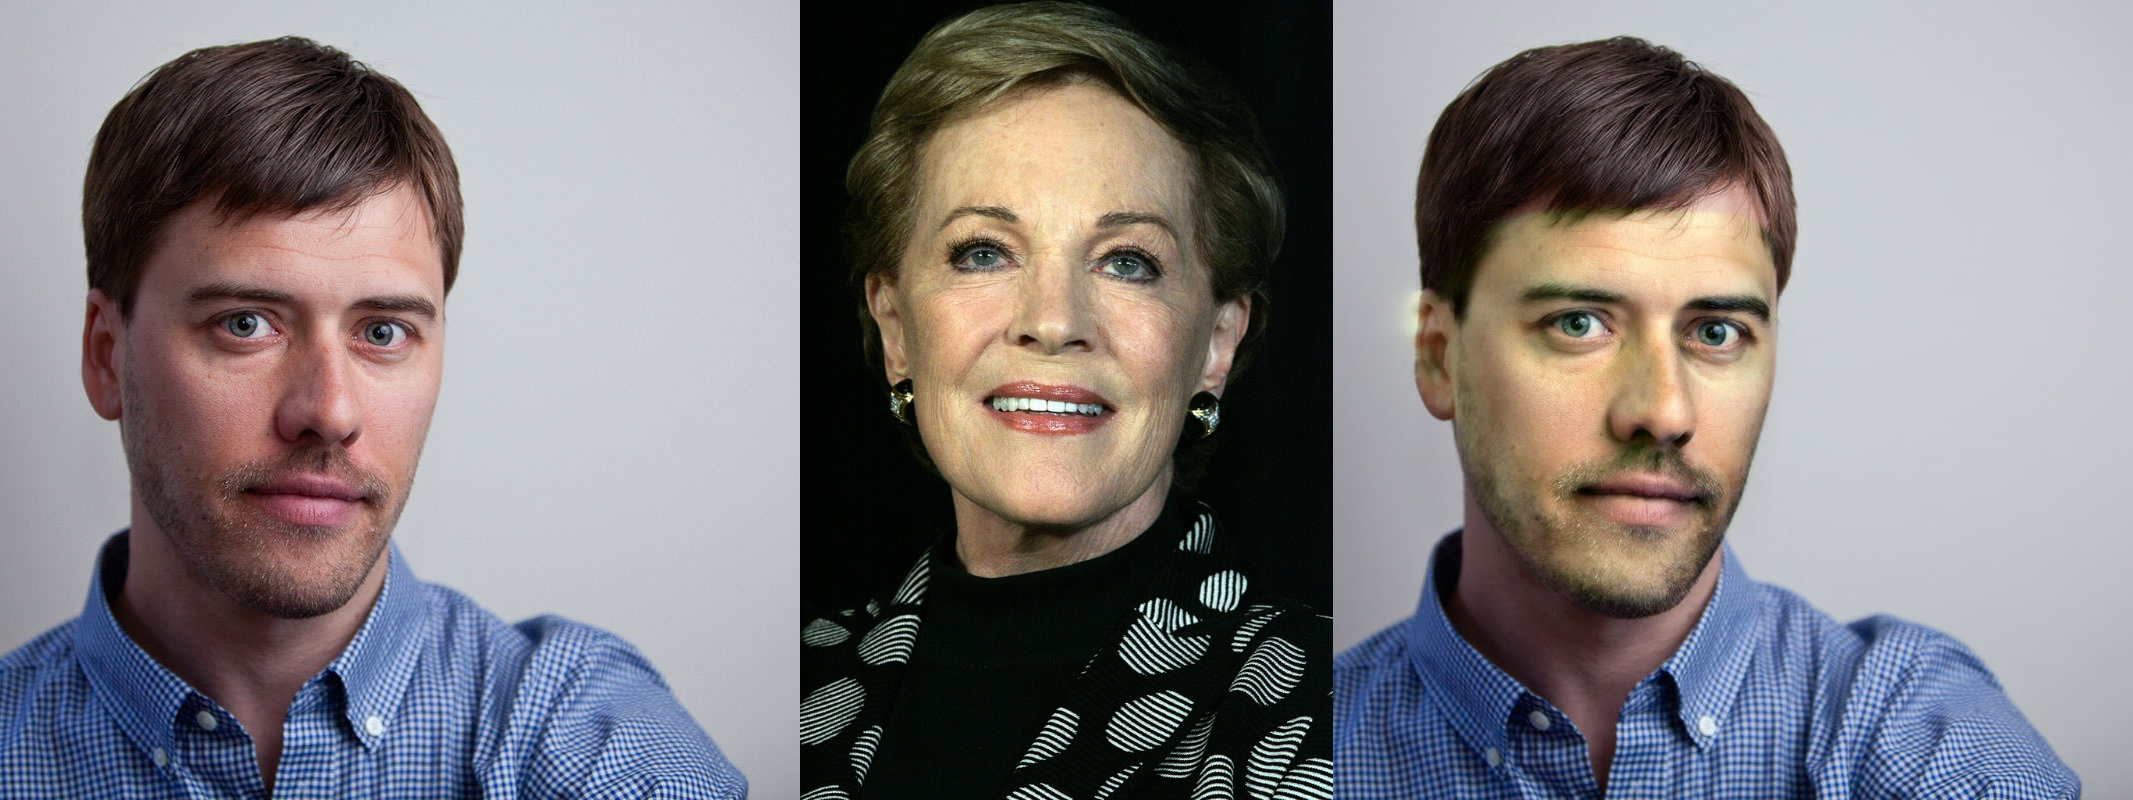
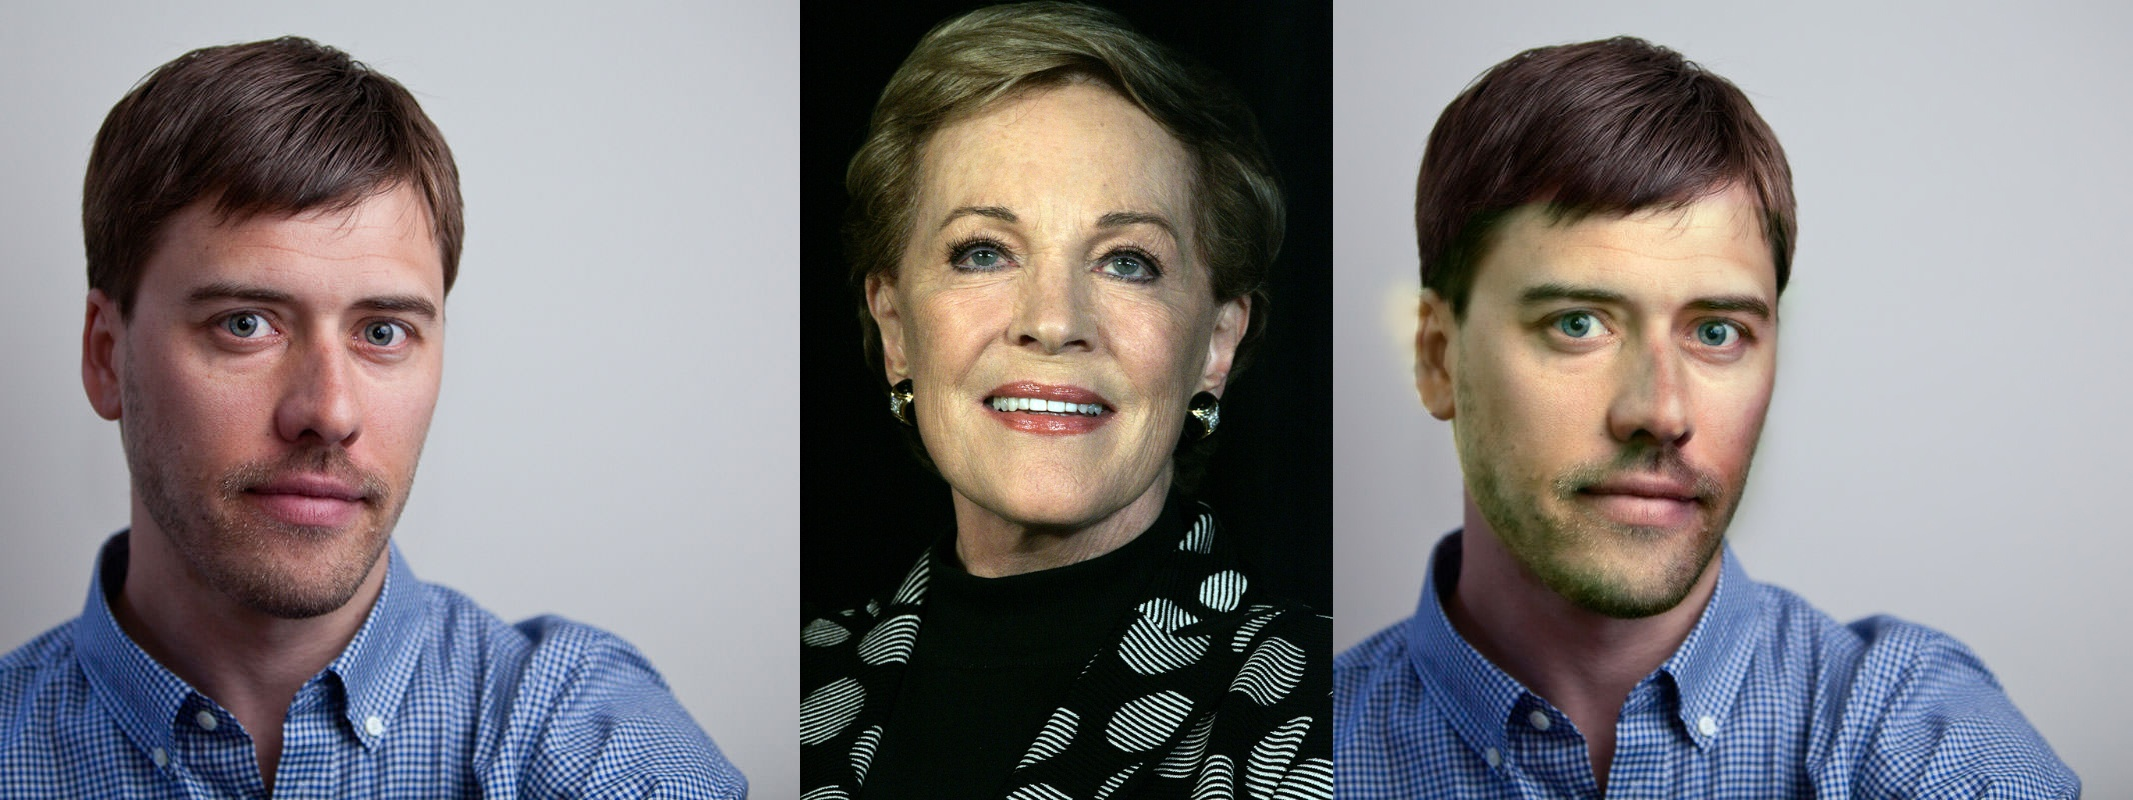
replace PRNet's dlib detection with pytorch retinaface, improve human face detection speed largely

Changed region(s): [[0.7736, 0.25, 0.8354, 0.6875], [0.6807, 0.5312, 0.7117, 0.625], [0.7736, 0.7188, 0.8045, 0.7812]]

diff --git a/python_portrait_relight/retinaface.py b/python_portrait_relight/retinaface.py
@@ -1,0 +1,82 @@
+# -*- coding: utf-8 -*-
+""" RetinaFace Detection SDK. """
+
+import torch
+import numpy as np
+
+from .pytorch_retinaface.data import cfg_mnet, cfg_re50
+from .pytorch_retinaface.models.retinaface import RetinaFace
+from .pytorch_retinaface.detect import load_model
+from .pytorch_retinaface.layers.functions.prior_box import PriorBox
+from .pytorch_retinaface.utils.box_utils import decode, decode_landm
+from .pytorch_retinaface.utils.nms.py_cpu_nms import py_cpu_nms
+
+
+class RetinaFaceSDK:
+    """RetinaFace detection sdk.
+    Attributes:
+        cfg: configure params.
+        device: cpu or cuda.
+        detector: retina face detector.
+        nms_thre: nms threshold.
+    """
+    def __init__(self, weight_path=None, cpu=None, cfg=None):
+        """load model. """
+        self.cfg = cfg
+        net = RetinaFace(cfg=self.cfg, phase='test')
+        net = load_model(net, weight_path, cpu)
+        net.eval()
+        self.device = torch.device("cpu" if cpu else "cuda")
+        self.detector = net.to(self.device)
+        self.nms_thre = 0.5
+    def detect(self, img_arr=None, thre=None):
+        """forward an img array.
+        Args:
+            img_arr: numpy array of an img returned by cv2.imread.
+        Returns:
+            detected boxes and landmarks.
+        """
+        img_arr, height, width = self.preprocess(img_arr)
+        loc, conf, landms = self.detector(img_arr)  # forward pass
+        boxes, landmarks, scores = self.postprocess((loc, conf, landms), (height, width),
+                                                    resize=1, thre=thre)
+        return [boxes, landmarks, scores]
+    def preprocess(self, img_arr=None):
+        """Preprocess. """
+        img_arr = np.float32(img_arr)
+        im_height, im_width, _ = img_arr.shape
+        img_arr -= (104, 117, 123)
+        img_arr = img_arr.transpose(2, 0, 1)
+        img_arr = torch.from_numpy(img_arr).unsqueeze(0)
+        img_arr = img_arr.to(self.device)
+        return img_arr, im_height, im_width
+    def postprocess(self, inputs, shape, resize=1, thre=None):
+        """postprocess. """
+        loc, conf, landms = inputs
+        im_height, im_width = shape
+        # scale
+        scale = torch.Tensor([im_width, im_height, im_width, im_height]).to(self.device)
+        priors = PriorBox(self.cfg, image_size=(im_height, im_width)).forward().to(self.device)
+        boxes = decode(loc.data.squeeze(0), priors.data, self.cfg['variance'])
+        boxes = boxes * scale / resize
+        boxes = boxes.cpu().numpy()
+        scores = conf.squeeze(0).data.cpu().numpy()[:, 1]
+        landms = decode_landm(landms.data.squeeze(0), priors.data, self.cfg['variance'])
+        scale = torch.Tensor([im_width, im_height, im_width, im_height,
+                              im_width, im_height, im_width, im_height,
+                              im_width, im_height]).to(self.device)
+        landms = landms * scale / resize
+        landms = landms.cpu().numpy()
+        # filter with score threshold
+        if thre is not None:
+            inds = np.where(scores > thre)[0]
+            boxes = boxes[inds]
+            landms = landms[inds]
+            scores = scores[inds]
+        # NMS
+        inds = py_cpu_nms(np.hstack((boxes, scores[:, np.newaxis])).astype(np.float32, copy=False),
+                          self.nms_thre)
+        boxes = boxes[inds]
+        scores = scores[inds]
+        landms = landms[inds]
+        return [boxes, landms, scores]

diff --git a/python_portrait_relight/relight.py b/python_portrait_relight/relight.py
@@ -14,19 +14,19 @@ import numpy as np
 from face3d.face3d.mesh.render import render_colors as render_texture
 
 
-if 0:
-    CUR_DIR = os.path.dirname(os.path.abspath(__file__))
-    sys.path.insert(0, os.path.join(CUR_DIR, 'python_color_transfer'))
-    sys.path.insert(0, os.path.join(CUR_DIR, 'PRNet'))
+# PRNet, pytorch_retinaface use relative import
+CUR_DIR = os.path.dirname(os.path.abspath(__file__))
+sys.path.insert(0, os.path.join(CUR_DIR, 'PRNet'))
+sys.path.insert(0, os.path.join(CUR_DIR, 'pytorch_retinaface'))
 
 from .src.utils import frontalize, normalize_v3
-from python_color_transfer.color_transfer import ColorTransfer, Regrain
-from PRNet.api import PRN
+from .python_color_transfer.color_transfer import ColorTransfer, Regrain
+from .PRNet.api import PRN
 
 class Relight:
     """Methods for relighting human faces."""
-    def __init__(self, m=20, c=8, smoothness=0.125):
-        self.prn = PRN(is_dlib=True, prefix='PRNet') 
+    def __init__(self, m=20, c=8, smoothness=0.125, prefix=''):
+        self.prn = PRN(is_dlib=True, prefix=prefix) 
         self.ct = ColorTransfer(m=m, c=c)
         self.rg = Regrain(smoothness=smoothness)
         self.mask1d = self.prn.face_ind
@@ -82,18 +82,25 @@ class Relight:
                                                step_size=0.2)
         out_features = out_features.transpose()
         return out_features
-    def relight(self, img_arr=None, ref_arr=None):
+    def relight(self, img_arr=None, ref_arr=None,
+                box=None, ref_box=None):
         '''Relight img_arr according to ref_arr.
         
         Args:
             img_arr: input bgr numpy array.
             ref_arr: reference bgr numpy array, target lighting condition.
+            box: face box of img_arr.
+            ref_box: face box of ref_arr.
         Returns:
             out_arr: relighted bgr array of img_arr.
         '''
         # get 3d positions by PRNet
-        pos = self.get_pos(img_arr=img_arr)
-        ref_pos = self.get_pos(img_arr=ref_arr)
+        [x1, y1, x2, y2] = box
+        img_info = np.array([x1, x2, y1, y2]) 
+        pos = self.get_pos(img_arr=img_arr, img_info=img_info)
+        [x1, y1, x2, y2] = ref_box
+        img_info = np.array([x1, x2, y1, y2])
+        ref_pos = self.get_pos(img_arr=ref_arr, img_info=img_info)
         # obtain texture by remapping
         texture = cv2.remap(img_arr, pos[:,:,:2].astype(np.float32), 
                             None, interpolation=cv2.INTER_NEAREST, 

diff --git a/demo.py b/demo.py
@@ -5,13 +5,17 @@ import time
 import cv2
 import numpy as np
 
-from relight import Relight
+from python_portrait_relight.relight import Relight
+from python_portrait_relight.retinaface import RetinaFaceSDK, cfg_mnet, cfg_re50
 
 def demo():
     os.environ['CUDA_VISIBLE_DEVICES'] = '0'
-    # path
+    # folder
     cur_dir = os.path.dirname(os.path.abspath(__file__))
+    weight_folder = os.path.join(cur_dir, 'weights')
     img_folder = os.path.join(cur_dir, 'imgs')
+    # path
+    weight_path = os.path.join(weight_folder, 'mobilenet0.25_Final.pth')
     img_num = 6
     img_names = ['portrait_s1.jpg' for _ in range(img_num)]
     ref_names = ['portrait_r{}.jpg'.format(i) for i in range(1, 1+img_num)]
@@ -20,7 +24,10 @@ def demo():
     ref_paths = [os.path.join(img_folder, x) for x in ref_names]
     out_paths = [os.path.join(img_folder, x) for x in out_names]
     # cls init
-    RT = Relight(c=8)
+    pr_folder = os.path.join(cur_dir, 'python_portrait_relight', 'PRNet')
+    RT = Relight(c=8, prefix=pr_folder)
+    cfg_mnet['pretrain'] = False
+    RF = RetinaFaceSDK(weight_path=weight_path, cpu=False, cfg=cfg_mnet)
     for img_path, ref_path, out_path in zip(img_paths, ref_paths, out_paths):
         # inputs
         img_arr = cv2.imread(img_path)
@@ -29,9 +36,19 @@ def demo():
         ref_arr = cv2.imread(ref_path)
         [h, w, c] = ref_arr.shape
         print('{}: {}x{}x{}'.format(ref_path, h, w, c))
+        # detect
+        [boxes, _, _] = RF.detect(img_arr, thre=0.5)
+        if len(boxes) == 0:
+            print('detect no faces in {}'.format(img_path))
+            continue
+        [ref_boxes, _, _] = RF.detect(ref_arr, thre=0.5)
+        if len(ref_boxes) == 0:
+            print('detect no faces in {}'.format(ref_path))
+            continue
         # relight
         stime = time.time()
-        out_arr = RT.relight(img_arr=img_arr, ref_arr=ref_arr)
+        out_arr = RT.relight(img_arr=img_arr, ref_arr=ref_arr,
+                             box=boxes[0], ref_box=ref_boxes[0])
         print('relight time: {:.2f}\n'.format(time.time()-stime))
         # resize for display
         [ref_height, ref_width, _] = ref_arr.shape

diff --git a/README.md b/README.md
@@ -15,30 +15,28 @@ input img | reference img | relighting img
 ```bash
 /root/python-portrait-relight/imgs/portrait_s1.jpg: 800x800x3
 /root/python-portrait-relight/imgs/portrait_r1.jpg: 873x799x3
-relight time: 19.50
+relight time: 6.43
 
 /root/python-portrait-relight/imgs/portrait_s1.jpg: 800x800x3
 /root/python-portrait-relight/imgs/portrait_r2.jpg: 950x950x3
-relight time: 19.54
+relight time: 5.13
 
 /root/python-portrait-relight/imgs/portrait_s1.jpg: 800x800x3
 /root/python-portrait-relight/imgs/portrait_r3.jpg: 1024x683x3
-relight time: 17.38
+relight time: 4.49
 
 /root/python-portrait-relight/imgs/portrait_s1.jpg: 800x800x3
 /root/python-portrait-relight/imgs/portrait_r4.jpg: 2403x1927x3
-relight time: 55.92
+relight time: 4.50
 
 /root/python-portrait-relight/imgs/portrait_s1.jpg: 800x800x3
 /root/python-portrait-relight/imgs/portrait_r5.jpg: 1024x744x3
-relight time: 18.34
+relight time: 4.69
 
 /root/python-portrait-relight/imgs/portrait_s1.jpg: 800x800x3
 /root/python-portrait-relight/imgs/portrait_r6.jpg: 981x774x3
-relight time: 18.94
+relight time: 4.68
 ```
-Most time is spent on PRNet, which rely on dlib to detect human faces. 
-Replacing the face detector will dramatically improve the speed.
 
 # Methods
 
@@ -52,8 +50,9 @@ t(colorI) is the relighted image of I with R for reference.\
 Finally, we apply regrain algorithm for postprocessing.
 
 # Dependency
-Process of pdf transfer and regrain are introduced in [Automated colour grading using colour distribution transfer](http://citeseerx.ist.psu.edu/viewdoc/download?doi=10.1.1.458.7694&rep=rep1&type=pdf) by F. Pitie , A. Kokaram and R. Dahyot.
-This repository denpends on my [python implementation of this paper](https://github.com/pengbo-learn/python-color-transfer).
+- 3D Face Reconstruction and Dense Alignment. [YadiraF/PRNet](https://github.com/YadiraF/PRNet.git)
+- Face detection. [biubug6/Pytorch_Retinaface](https://github.com/biubug6/Pytorch_Retinaface.git)
+- pdf-transfer and regrain process. [pengbo-learn/python-color-transfer](https://github.com/pengbo-learn/python-color-transfer)
 
 
 # References
